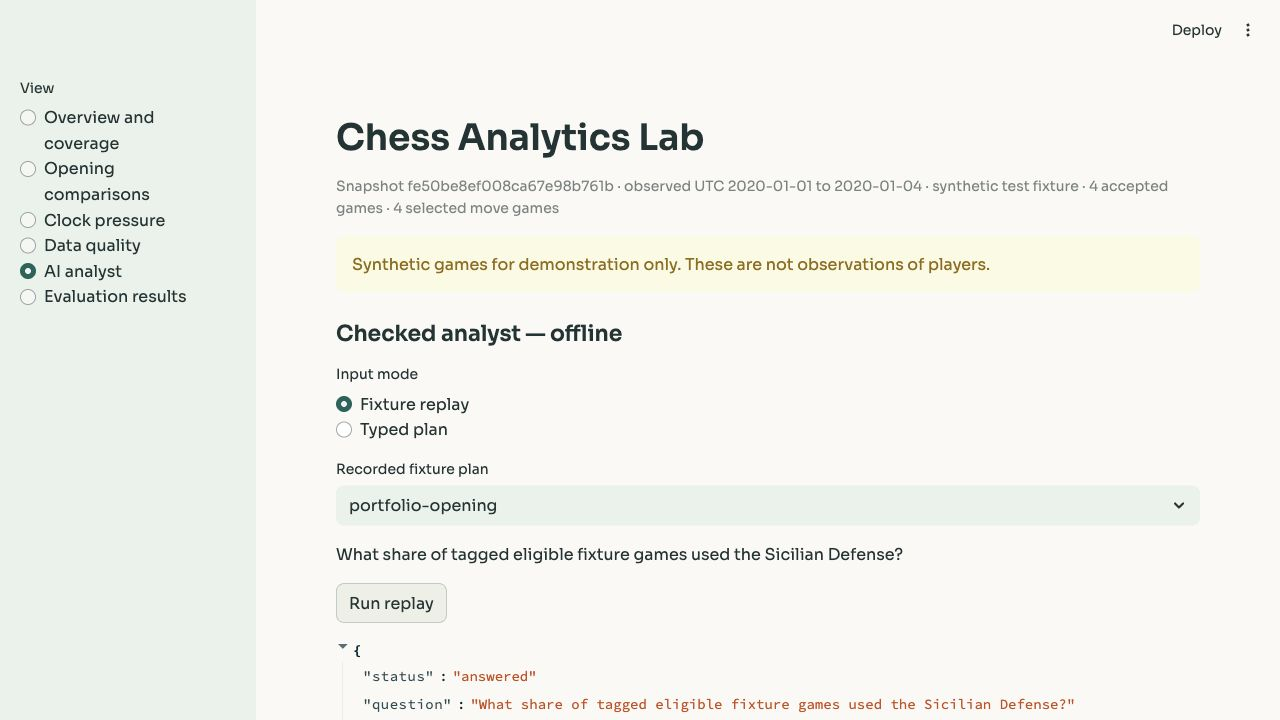
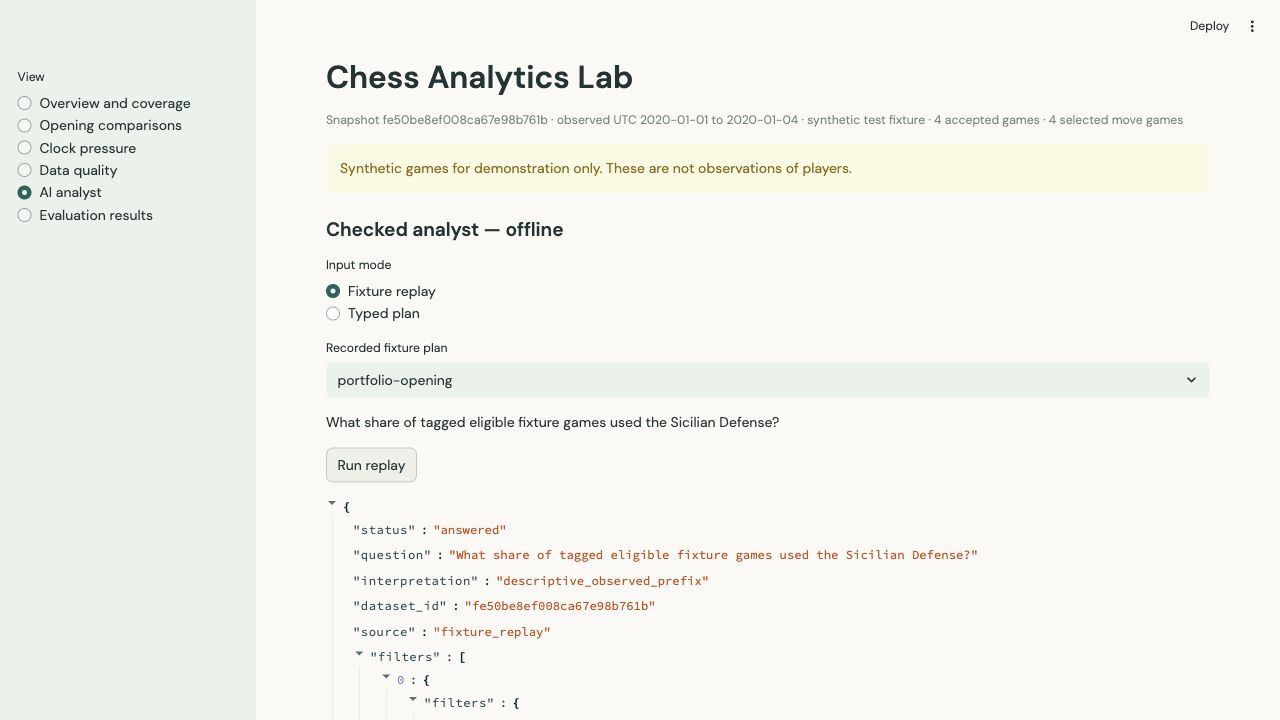
Apply approved DM Sans and compact reading styles

diff --git a/site/assets/site.css b/site/assets/site.css
@@ -1,8 +1,8 @@
 @font-face {
-  font-family:Sora;
-  src:url("fonts/sora-latin-wght-normal.woff2") format("woff2");
+  font-family:"DM Sans";
+  src:url("fonts/dm-sans-latin-wght-normal.woff2") format("woff2");
   font-style:normal;
-  font-weight:100 800;
+  font-weight:100 1000;
   font-display:swap}
 
 :root {
@@ -14,7 +14,7 @@
   --teal:#116559;
   --accent:#cf612f;
   --soft:#eaf1eb;
-  --font-body:Sora,system-ui,-apple-system,sans-serif;
+  --font-body:"DM Sans",system-ui,-apple-system,sans-serif;
   --font-heading:var(--font-body);
   --radius:10px;
   --space-unit:4px}
@@ -27,7 +27,8 @@ body {
   margin:0;
   background:var(--paper);
   color:var(--ink);
-  font:17px/1.7 var(--font-body)}
+  font:14px/1.55 var(--font-body);
+  letter-spacing:.01em}
 a {
   color:var(--teal);
   text-underline-offset:3px}
@@ -90,7 +91,7 @@ main {
 h1 {
   font-family:var(--font-heading);
   font-weight:600;
-  font-size:clamp(34px,4.5vw,52px);
+  font-size:clamp(28px,3.5vw,36px);
   line-height:1.15;
   letter-spacing:-.025em;
   margin:10px 0 22px;
@@ -98,18 +99,18 @@ h1 {
 h2 {
   font-family:var(--font-heading);
   font-weight:600;
-  font-size:29px;
+  font-size:23px;
   line-height:1.3;
   margin-top:42px;
   letter-spacing:-.02em}
 h3 {
   font-family:var(--font-heading);
   font-weight:600;
-  font-size:23px;
+  font-size:18px;
   line-height:1.4}
 .lead {
   max-width:800px;
-  font-size:21px;
+  font-size:17px;
   color:var(--muted)}
 .hero {
   padding-bottom:28px;
@@ -137,7 +138,7 @@ h3 {
   box-shadow:0 3px 15px #243d3210}
 .card strong {
   display:block;
-  font-size:21px;
+  font-size:17px;
   font-weight:600}
 .card p {
   color:var(--muted);
@@ -249,7 +250,7 @@ code:not(pre code) {
 .toc ul {
   margin:8px 0}
 .article>h1 {
-  font-size:33px;
+  font-size:30px;
   margin-top:35px}
 .article li {
   margin:6px 0}
@@ -332,7 +333,7 @@ nav {
 .cards,.pipeline {
   grid-template-columns:1fr}
 .lead {
-  font-size:18px}
+  font-size:16px}
 main {
   padding:28px 18px}
 .report-frame {
@@ -352,7 +353,7 @@ td.number,th.number {
   text-align:right;
   white-space:nowrap}
 .article>p,.article>ul,.article>ol {
-  max-width:75ch}
+  max-width:70ch}
 details[id],h2[id],h3[id] {
   scroll-margin-top:110px}
 figure a {

diff --git a/scripts/build_docs_site.py b/scripts/build_docs_site.py
@@ -44,10 +44,10 @@ ASSETS = {
     "site.js": "site/assets/site.js",
     "demo-overview.png": "site/assets/demo-overview.png",
     "demo-analyst.png": "site/assets/demo-analyst.png",
-    "fonts/sora-latin-wght-normal.woff2": (
-        "analytics_m4/static/fonts/sora-latin-wght-normal.woff2"
+    "fonts/dm-sans-latin-wght-normal.woff2": (
+        "analytics_m4/static/fonts/dm-sans-latin-wght-normal.woff2"
     ),
-    "fonts/LICENSE.sora.txt": "analytics_m4/static/fonts/LICENSE.sora.txt",
+    "fonts/LICENSE.dm-sans.txt": "analytics_m4/static/fonts/LICENSE.dm-sans.txt",
     "fonts/provenance.json": "site/assets/fonts/provenance.json",
 }
 NAV = (

diff --git a/docs/DESIGN.md b/docs/DESIGN.md
@@ -9,16 +9,18 @@ and measured values.
 
 | Role | Choice | Reason |
 | --- | --- | --- |
-| Guide headings | Sora, weight 600 | Matches the body and dashboard with one consistent family |
-| Body, navigation, cards, tables | Sora, weight 400; emphasis 600–650 | Clear screen reading and restrained emphasis |
-| Dashboard text and headings | Sora; headings weight 600 | Compact analytical interface without oversized heavy titles |
+| Guide headings | DM Sans, weight 600 | Matches the body and dashboard with one consistent family |
+| Body, navigation, cards, tables | DM Sans, weight 400; emphasis 600–650 | Clear screen reading and restrained emphasis |
+| Dashboard text and headings | DM Sans; headings weight 600 | Compact analytical interface without oversized heavy titles |
 | Code and technical identifiers | Existing system monospace | Separates execution instructions and identifiers |
 | Numbers in tables | Tabular numerals; numeric cells aligned right | Easier comparison across rows |
 
-Guide body text is 17px with 1.7 line height and prose limited to roughly 75
-characters per line. The page title scales from 34px to 52px; section headings
-are 29px on desktop. Navigation and table headings stay sans serif. Dashboard
-body text is 16px and the main title 36px. Use size and spacing before extra bold.
+Guide body text is 14px with 1.55 line height, 0.01em letter spacing and prose
+limited to roughly 70 characters per line. The page title scales from 28px to
+36px; section headings are 23px. Navigation and tables use the same family.
+Dashboard body text is 14px and the main title approximately 32px, using
+Streamlit's native spacing. Use size and spacing before extra bold. Browser
+zoom remains available; avoid fixed-height prose that clips enlarged text.
 
 The shared palette is warm paper `#faf9f5`, dark teal text `#203433`, muted text
 `#586c69`, action teal `#116559`, pale panels `#eaf1eb`, borders `#d7ded7` and
@@ -34,11 +36,11 @@ larger gaps between sections; cards have subtle borders and restrained corners.
   and responsive behavior. The `--font-body` and `--font-heading` tokens define
   the font roles.
 - [Streamlit configuration](../.streamlit/config.toml) uses supported theme
-  settings for the same palette and Sora. Launch from the repository root so
+  settings for the same palette and DM Sans. Launch from the repository root so
   Streamlit loads this file. Restart the server after font/theme changes.
 - [Website builder](../scripts/build_docs_site.py) copies only named assets.
-  The site and dashboard share the same checked Sora file from
-  `analytics_m4/static/fonts`. All current guide and dashboard text uses Sora
+  The site and dashboard share the same checked DM Sans file from
+  `analytics_m4/static/fonts`. All current guide and dashboard text uses DM Sans
   except code, which keeps its monospace role.
 
 The font files are Latin-subset normal-style variable WOFF2 files. Other scripts

diff --git a/docs/STATUS.md b/docs/STATUS.md
@@ -37,14 +37,18 @@ returned HTTP 200; published report bytes match the original. See [website runbo
 
 ## Visual style update — 2026-10-09
 
-Applied Sora throughout the guides and dashboard after the owner chose the
-slightly wider sans-serif from the in-chat comparison.
-Fonts are bundled locally with OFL licenses and pinned provenance. The dashboard
-uses the shared light palette and Sora headings at 36px/600; guide tables use
+Applied owner-approved DM Sans throughout the guides and dashboard after the
+Inter/DM Sans/Sora guide comparison. Guide body text is 14px/1.55 with 0.01em
+letter spacing and a roughly 70-character prose measure; page titles now scale
+from 28px to 36px. Fonts are bundled locally with OFL licenses and pinned
+provenance. The dashboard uses the shared light palette, a 14px base and
+approximately 32px/600 headings; guide tables use
 tabular numbers and numeric alignment. Actual synthetic Overview and opening
 replay screenshots were refreshed; previews are capped at 760px with full-size
-links. Desktop and 390px architecture checks found no page overflow; routing
-controls still report the frozen counts. The targeted publication/demo suite
+links. Desktop browser checks verified the current font and replay. Earlier
+390px checks apply to the preceding style; the current browser viewport override
+remained at 1280px, so a new mobile visual check was not completed. Responsive
+layout rules remain in place. The targeted publication/demo suite
 passed **5 tests** and Ruff passed. See [visual guide](DESIGN.md). The existing Pages workflow publishes
 this presentation update from main; original comparison report and benchmark
 evidence are unchanged. No live model calls occurred.

diff --git a/docs/DECISIONS.md b/docs/DECISIONS.md
@@ -1135,3 +1135,15 @@ palette; refresh the actual synthetic demo screenshots. Add source-revision
 queries to stylesheet/script URLs so a new deployment refreshes those assets.
 Earlier typeface trials remain in Git history and the decision log. Frozen
 comparison report styling and all benchmark evidence remain unchanged.
+
+## 2026-10-09 — DM Sans approved after compact reading comparison
+
+The owner shortlisted Inter, DM Sans and Sora at 14px with 0.01em letter
+spacing, then approved DM Sans in the guide-layout comparison. Use locally
+hosted Fontsource DM Sans 5.3.0 with its original OFL license and pinned hashes
+in both the guides and dashboard. Guide body text uses 14px/1.55, 0.01em
+tracking and a roughly 70-character prose measure; reduce oversized guide
+headings to match the compact reading preference. Streamlit uses its native
+spacing with a 14px base. Refresh the actual synthetic demo images, preserve
+frozen reports, and retain earlier font experiments in Git history. This is
+a presentation update with no new dataset or live model requests.

diff --git a/THIRD_PARTY_NOTICES.md b/THIRD_PARTY_NOTICES.md
@@ -31,8 +31,8 @@ licenses listed above. CC0 source data does not set the software license.
 
 ## Bundled typography
 
-Sora is bundled as a Latin normal-style variable WOFF2 font
+DM Sans is bundled as a Latin normal-style variable WOFF2 font
 from Fontsource packages **5.3.0**, under **SIL Open Font License 1.1**.
 It retains its own license; the project's GPL does not replace it.
 See [pinned URLs and SHA-256 hashes](site/assets/fonts/provenance.json),
-[Sora license](analytics_m4/static/fonts/LICENSE.sora.txt).
+[DM Sans license](analytics_m4/static/fonts/LICENSE.dm-sans.txt).

diff --git a/docs/SITE.md b/docs/SITE.md
@@ -95,7 +95,7 @@ responses, `.env` files, numbered cloud-sync copies and credentials are excluded
 
 ## Shared appearance
 
-[The visual style guide](DESIGN.md) explains the Sora heading/body font roles,
+[The visual style guide](DESIGN.md) explains the DM Sans heading/body font roles,
 shared palette, licensing and screenshot refresh process. Fonts are bundled in
 both the site and local dashboard; no runtime font-service connection is needed.
 Demo images are constrained to 760px and link to their full-size originals.

diff --git a/docs/DEMO.md b/docs/DEMO.md
@@ -140,6 +140,6 @@ month implied by an archive name.
 ## Dashboard appearance
 
 Run from the repository root to load the shared light theme and locally served
-Sora font in `.streamlit/config.toml`. Restart Streamlit after theme changes.
+DM Sans font in `.streamlit/config.toml`. Restart Streamlit after theme changes.
 The [visual style guide](DESIGN.md) explains font choices and screenshot capture;
 the HTML guide provides smaller previews with links to full-size images.
